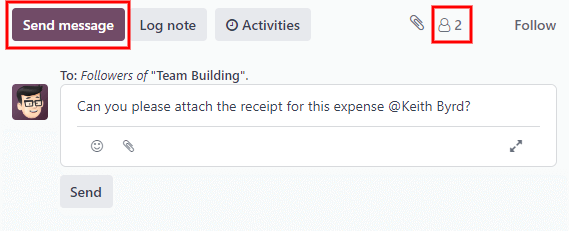
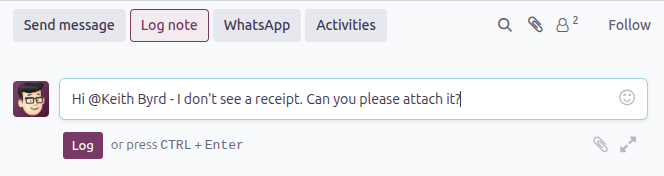
[IMP] Expenses: Updating approve expenses
closes odoo/documentation#15165

X-original-commit: 38c8247625d4677e73a18a2edcc737da1ae02795

diff --git a/content/applications/finance/expenses/approve_expenses.rst b/content/applications/finance/expenses/approve_expenses.rst
@@ -2,10 +2,11 @@
 Approve expenses
 ================
 
-In Odoo, not just anyone can approve expense reports, only users with the necessary rights (or
-permissions) can. This means that a user **must** have at least *Team Approver* rights for the
-*Expenses* app. Employees with the necessary rights can review expense reports, approve or reject
-them, and provide feedback thanks to the integrated communication tool.
+In Odoo, most users cannot approve expense reports; only users with the necessary access rights or
+permissions can. This means that a user **must** have at least *Team Approver* rights for the
+**Expenses** app. Employees with the necessary rights can review expense reports, approve or refuse
+them, and provide feedback with an integrated :ref:`Refuse Expense <expenses/refuse-report>`
+communication tool.
 
 Please refer to the :doc:`access rights documentation </applications/general/users>` to learn more
 about managing users and their access rights.
@@ -13,16 +14,16 @@ about managing users and their access rights.
 View expense reports
 ====================
 
-Users who are able to approve expense reports, typically managers, can easily view all expense
-reports they have access rights to. Go to :menuselection:`Expenses app --> Expense Reports`, to view
-the :guilabel:`All Reports` dashboard.
+Users who are able to approve expense reports (typically managers) have an :guilabel:`Expense
+Reports` main navigation button at the top of the **Expenses** app. This allows managers to view all
+expense reports they have access rights for. Navigate to :menuselection:`Expenses app --> Expense
+Reports`, to view the :guilabel:`All Reports` dashboard.
 
 A list of all expense reports with a status of either :guilabel:`To Submit`, :guilabel:`Submitted`,
 :guilabel:`Approved`, :guilabel:`Posted`, or :guilabel:`Done` appears. Expense reports with a status
 of :guilabel:`Refused` are hidden, by default.
 
 .. image:: approve_expenses/expense-reports-list.png
-   :align: center
    :alt: Reports to validate are found on the Reports to Approve page.
 
 Approve expense reports
@@ -46,12 +47,13 @@ Approve individual reports
 --------------------------
 
 To approve an individual report, navigate to :menuselection:`Expenses app --> Expense Reports`, and
-click on an individual report to view the report form.
+click on an individual report to view the detailed report form.
 
 From here, several options are presented: :guilabel:`Approve`,  :guilabel:`Refuse`, and
-:guilabel:`Reset to draft`.
+:guilabel:`Reset to draft`. Click :guilabel:`Approve` to approve the report.
 
-Click :guilabel:`Approve` to approve the report.
+   .. image:: approve_expenses/approve-individual.png
+      :alt: An individual expense report that can be approved or refused.
 
 .. _expenses/multiple:
 
@@ -65,22 +67,16 @@ the checkbox next to each report being approved, or tick the checkbox next to th
 
 Next, click the :guilabel:`Approve Report` button.
 
-.. image:: approve_expenses/approve-report.png
-   :align: center
-   :alt: Approve multiple reports by clicking the checkboxes next to each report.
+   .. image:: approve_expenses/approve-multiple.png
+      :alt: Select multiple expense reports at once.
 
 .. tip::
-   It is possible for team managers to view all the expense reports for just their team members.
+   Team managers can view all the expense reports for their team members only. While on the
+   :guilabel:`All Reports` page, click the :icon:`fa-caret-down` :guilabel:`(down arrow)` to the
+   right of the search bar, then click :guilabel:`My Team` in the :icon:`fa-filter`
+   :guilabel:`Filters` section. This presents all the reports for only the manager's team.
 
-   To do so, while on the :guilabel:`All Reports` page, click the :icon:`fa-caret-down`
-   :guilabel:`(down arrow)` to the right of the search bar, then click :guilabel:`My Team` in the
-   :icon:`fa-filter` :guilabel:`Filters` section.
-
-   This presents all the reports for only the manager's team.
-
-   .. image:: approve_expenses/my-team-filter.png
-      :align: center
-      :alt: Select the My Team filter.
+.. _expenses/refuse-report:
 
 Refuse expense reports
 ======================
@@ -88,32 +84,30 @@ Refuse expense reports
 Expense reports can **only** be refused on the individual expense report, and **not** from the
 :guilabel:`All Reports` dashboard. To open an individual expense report, navigate to
 :menuselection:`Expenses app --> Expense Reports`, then click on an individual expense report to
-view the report form.
+view the detailed expense report form.
 
 If more information is needed, such as a missing receipt, communicate any necessary information
-requests in the *chatter* of the report form. On the individual expense report, click
-:guilabel:`Send message` to open a message text box.
+requests in the *chatter* of the report form. On the individual expense report, click either
+:guilabel:`Send message` or :guilabel:`Log note` to open a message text box.
 
 Type in a message, tagging the proper people, and post it to the *chatter* by clicking
-:guilabel:`Send`. The message is posted in the chatter, and the tagged people are notified, via
-email.
+:guilabel:`Send` or :guilabel:`Log`, depending on the method of communication. The message is posted
+in the chatter, and the tagged people are notified via email.
 
 .. note::
    The only people that can be tagged in a message are *followers* of the specific report. To see
-   who is a follower, click the :icon:`fa-user-o` :guilabel:`(user)` icon to display the followers
-   of the expense report.
+   who is a follower, click the :icon:`fa-user-o` :guilabel:`(Show Followers)` icon to display the
+   followers of the expense report.
 
    .. image:: approve_expenses/chatter.png
-      :align: center
       :alt: Send messages in the chatter.
 
 To refuse an expense report, click :guilabel:`Refuse`, and a :guilabel:`Refuse Expense` pop-up
-window appears. Enter a brief explanation for the refusal beneath the :guilabel:`REASON TO REFUSE
-EXPENSE` field, then click :guilabel:`Refuse`.
+window loads. Enter a brief explanation for the refusal on the :guilabel:`Reason` line, then click
+:guilabel:`Refuse`.
 
 .. image:: approve_expenses/refuse-expense.png
-   :align: center
    :alt: Send messages in the chatter.
 
 Once the expense report is refused, the status changes to :guilabel:`Refused`, and the only button
-that appears in the top-left is :guilabel:`Reset to Draft`.
+that appears is :guilabel:`Reset to Draft`.
